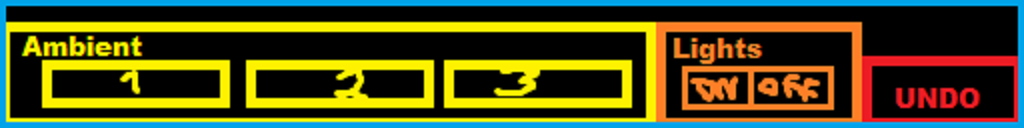
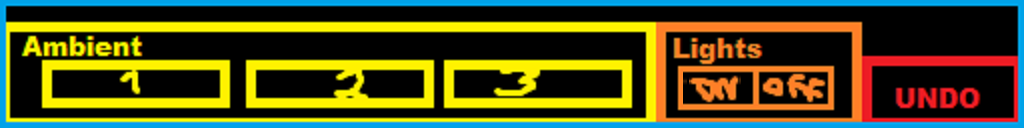
:tropical_drink: Ajustes nos butões

Changed region(s): [[0.7188, 0.5625, 0.8125, 0.8125], [0.6562, 0.5, 0.6875, 0.875]]

diff --git a/TP3/reader/GameScene.js b/TP3/reader/GameScene.js
@@ -1028,7 +1028,7 @@ GameScene.prototype.displayHUD = function(Node){
 		this.Game.HUD.appearance.setTextureWrap('REPEAT', 'REPEAT');
 		this.Game.HUD.appearance.apply();
 		this.scale(0.21,0.21,1);
-		this.translate(1,-3.7,-4);
+		this.translate(1.03,-3.71,-4);
 		this.registerForPick(34, this.Game.HUD.LightON);
 		this.Game.HUD.LightON.display();
 	this.popMatrix();
@@ -1043,7 +1043,7 @@ GameScene.prototype.displayHUD = function(Node){
 		this.Game.HUD.appearance.setTextureWrap('REPEAT', 'REPEAT');
 		this.Game.HUD.appearance.apply();
 		this.scale(0.21,0.21,1);
-		this.translate(1.45,-3.7,-4);
+		this.translate(1.48,-3.71,-4);
 		this.registerForPick(35, this.Game.HUD.LightOFF);
 		this.Game.HUD.LightOFF.display();
 	this.popMatrix();
